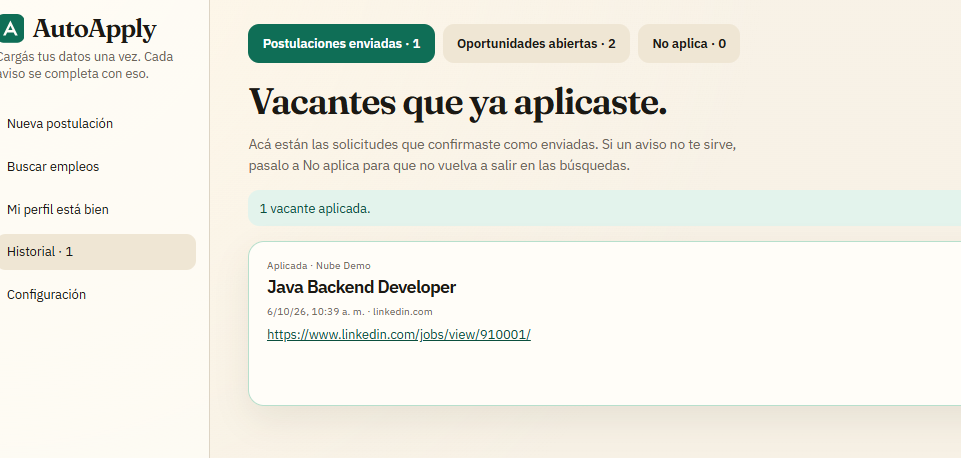
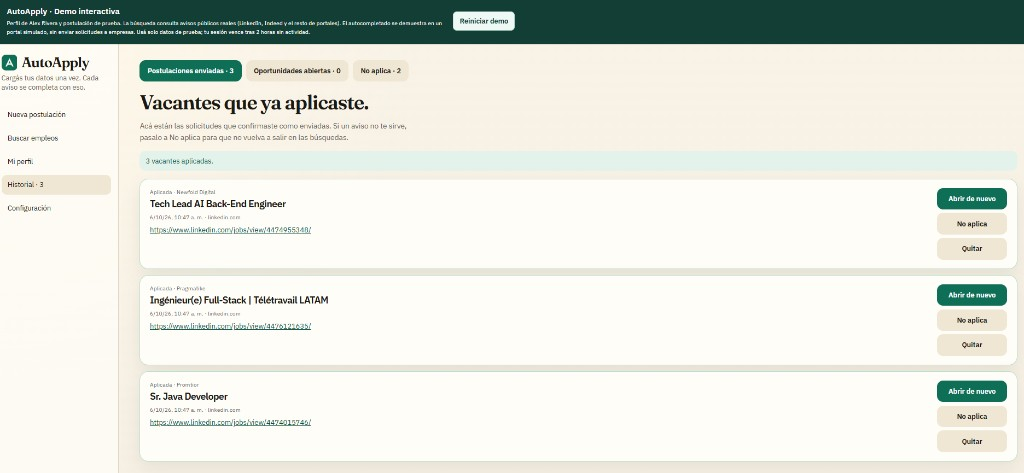
Revise README and translation files to update demo screenshots, improve section titles, and enhance clarity of instructions.

diff --git a/README.md b/README.md
@@ -37,19 +37,6 @@ AutoApply es una aplicación que busca oportunidades con tu perfil, completa la 
 
 <br>
 
-<table>
-  <tr>
-    <td width="50%"><img src="./doc/assets/screenshots/profile.png" alt="Perfil: cargá tus datos una vez" width="100%" /></td>
-    <td width="50%"><img src="./doc/assets/screenshots/results.png" alt="Resultados con coincidencia orientativa" width="100%" /></td>
-  </tr>
-  <tr>
-    <td width="50%"><img src="./doc/assets/screenshots/history.png" alt="Historial de postulaciones enviadas" width="100%" /></td>
-    <td width="50%"><img src="./doc/assets/screenshots/settings.png" alt="Configuración: aviso sonoro y Detener" width="100%" /></td>
-  </tr>
-</table>
-
-<br>
-
 ## Índice 📜
 
 <details>
@@ -391,7 +378,20 @@ El backup incluye perfil, cuentas, historiales, configuración de búsqueda y CV
 
 <br>
 
-#### 3.0.1) Recorrido recomendado (demo)
+#### 3.0.1) Capturas de la demo
+
+<table>
+  <tr>
+    <td width="50%"><img src="./doc/assets/screenshots/profile.png" alt="Perfil: cargá tus datos una vez" width="100%" /></td>
+    <td width="50%"><img src="./doc/assets/screenshots/results.png" alt="Resultados con coincidencia orientativa" width="100%" /></td>
+  </tr>
+  <tr>
+    <td width="50%"><img src="./doc/assets/screenshots/history.png" alt="Historial de postulaciones enviadas" width="100%" /></td>
+    <td width="50%"><img src="./doc/assets/screenshots/settings.png" alt="Configuración: aviso sonoro y Detener" width="100%" /></td>
+  </tr>
+</table>
+
+#### 3.0.2) Recorrido recomendado (demo)
 
 1. Abrí **Mi perfil** y mirá (o editá) los datos ficticios. No cargues información personal en el sandbox público.
 2. En **Buscar empleos**, mové filtros: publicación, tecnologías, idiomas, exclusiones.
@@ -404,7 +404,7 @@ Credenciales de prueba del portal ficticio (no sirven en sitios reales):
 
 `alex.rivera@example.invalid` / `Demo-Only-2026!`
 
-#### 3.0.2) Tests automatizados
+#### 3.0.3) Tests automatizados
 
 ```bash
 npm test
@@ -412,7 +412,7 @@ npm test
 
 La suite cubre filtros, historial, detención, persistencia, aislamiento de la demo y recorridos de interfaz con Playwright. No necesita que tengas AutoApply abierto. Las pruebas no postulan a empresas ni usan cuentas reales.
 
-#### 3.0.3) Salud del proceso
+#### 3.0.4) Salud del proceso
 
 ```bash
 # local

diff --git a/doc/assets/translation/README.en.md b/doc/assets/translation/README.en.md
@@ -37,19 +37,6 @@ AutoApply is an application that finds roles matching your profile, fills the ap
 
 <br>
 
-<table>
-  <tr>
-    <td width="50%"><img src="../screenshots/profile.png" alt="Profile: load your details once" width="100%" /></td>
-    <td width="50%"><img src="../screenshots/results.png" alt="Search results with match score" width="100%" /></td>
-  </tr>
-  <tr>
-    <td width="50%"><img src="../screenshots/history.png" alt="Submitted applications history" width="100%" /></td>
-    <td width="50%"><img src="../screenshots/settings.png" alt="Settings: sound alert and Stop" width="100%" /></td>
-  </tr>
-</table>
-
-<br>
-
 ## Index 📜
 
 <details>
@@ -391,7 +378,20 @@ A backup includes profile, accounts, histories, search settings and CVs as Base6
 
 <br>
 
-#### 3.0.1) Recommended walkthrough (demo)
+#### 3.0.1) Demo screenshots
+
+<table>
+  <tr>
+    <td width="50%"><img src="../screenshots/profile.png" alt="Profile: load your details once" width="100%" /></td>
+    <td width="50%"><img src="../screenshots/results.png" alt="Search results with match score" width="100%" /></td>
+  </tr>
+  <tr>
+    <td width="50%"><img src="../screenshots/history.png" alt="Submitted applications history" width="100%" /></td>
+    <td width="50%"><img src="../screenshots/settings.png" alt="Settings: sound alert and Stop" width="100%" /></td>
+  </tr>
+</table>
+
+#### 3.0.2) Recommended walkthrough (demo)
 
 1. Open **My profile** and look at (or edit) the fictional data. Do not load personal information into the public sandbox.
 2. In **Job search**, move filters: freshness, technologies, languages, exclusions.
@@ -404,7 +404,7 @@ Test credentials for the fictional portal (they do not work on real sites):
 
 `alex.rivera@example.invalid` / `Demo-Only-2026!`
 
-#### 3.0.2) Automated tests
+#### 3.0.3) Automated tests
 
 ```bash
 npm test
@@ -412,7 +412,7 @@ npm test
 
 The suite covers filters, history, stop, persistence, demo isolation and UI walks with Playwright. You do not need AutoApply already running. Tests do not apply to companies or use real accounts.
 
-#### 3.0.3) Process health
+#### 3.0.4) Process health
 
 ```bash
 # local
